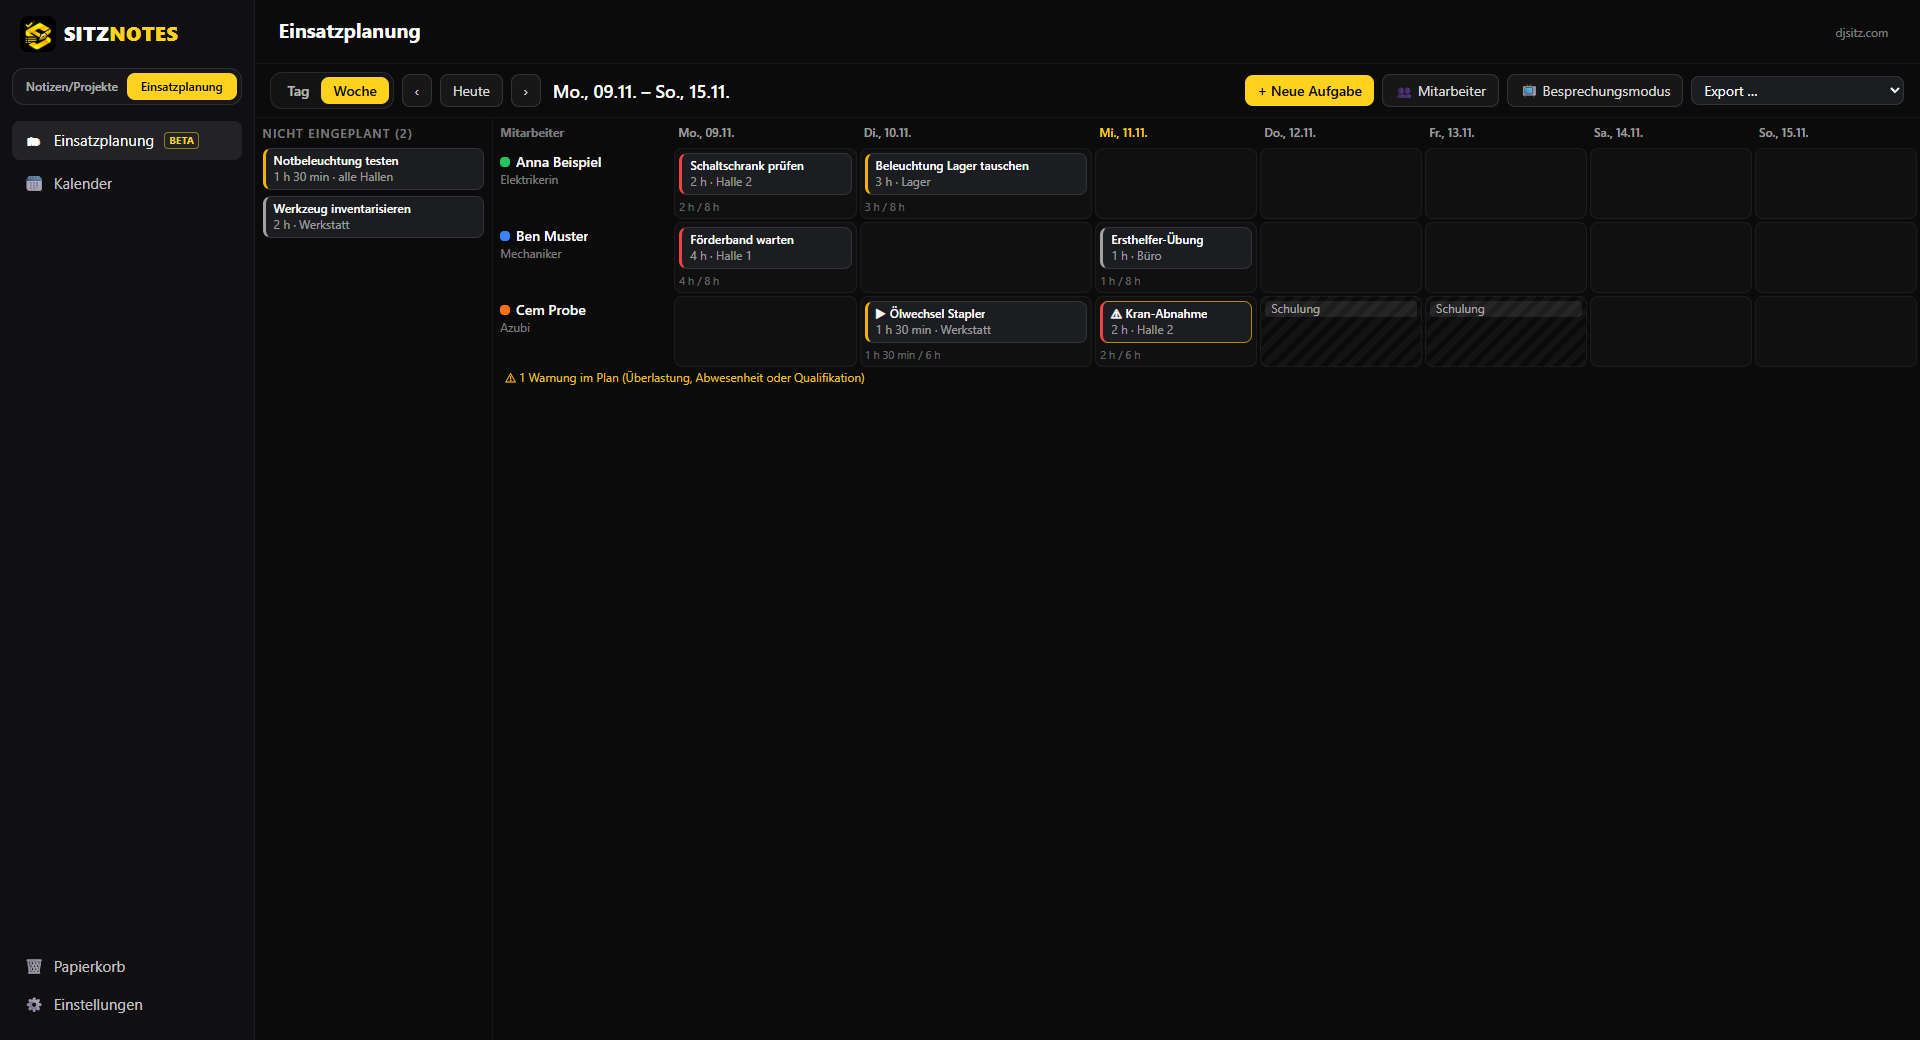
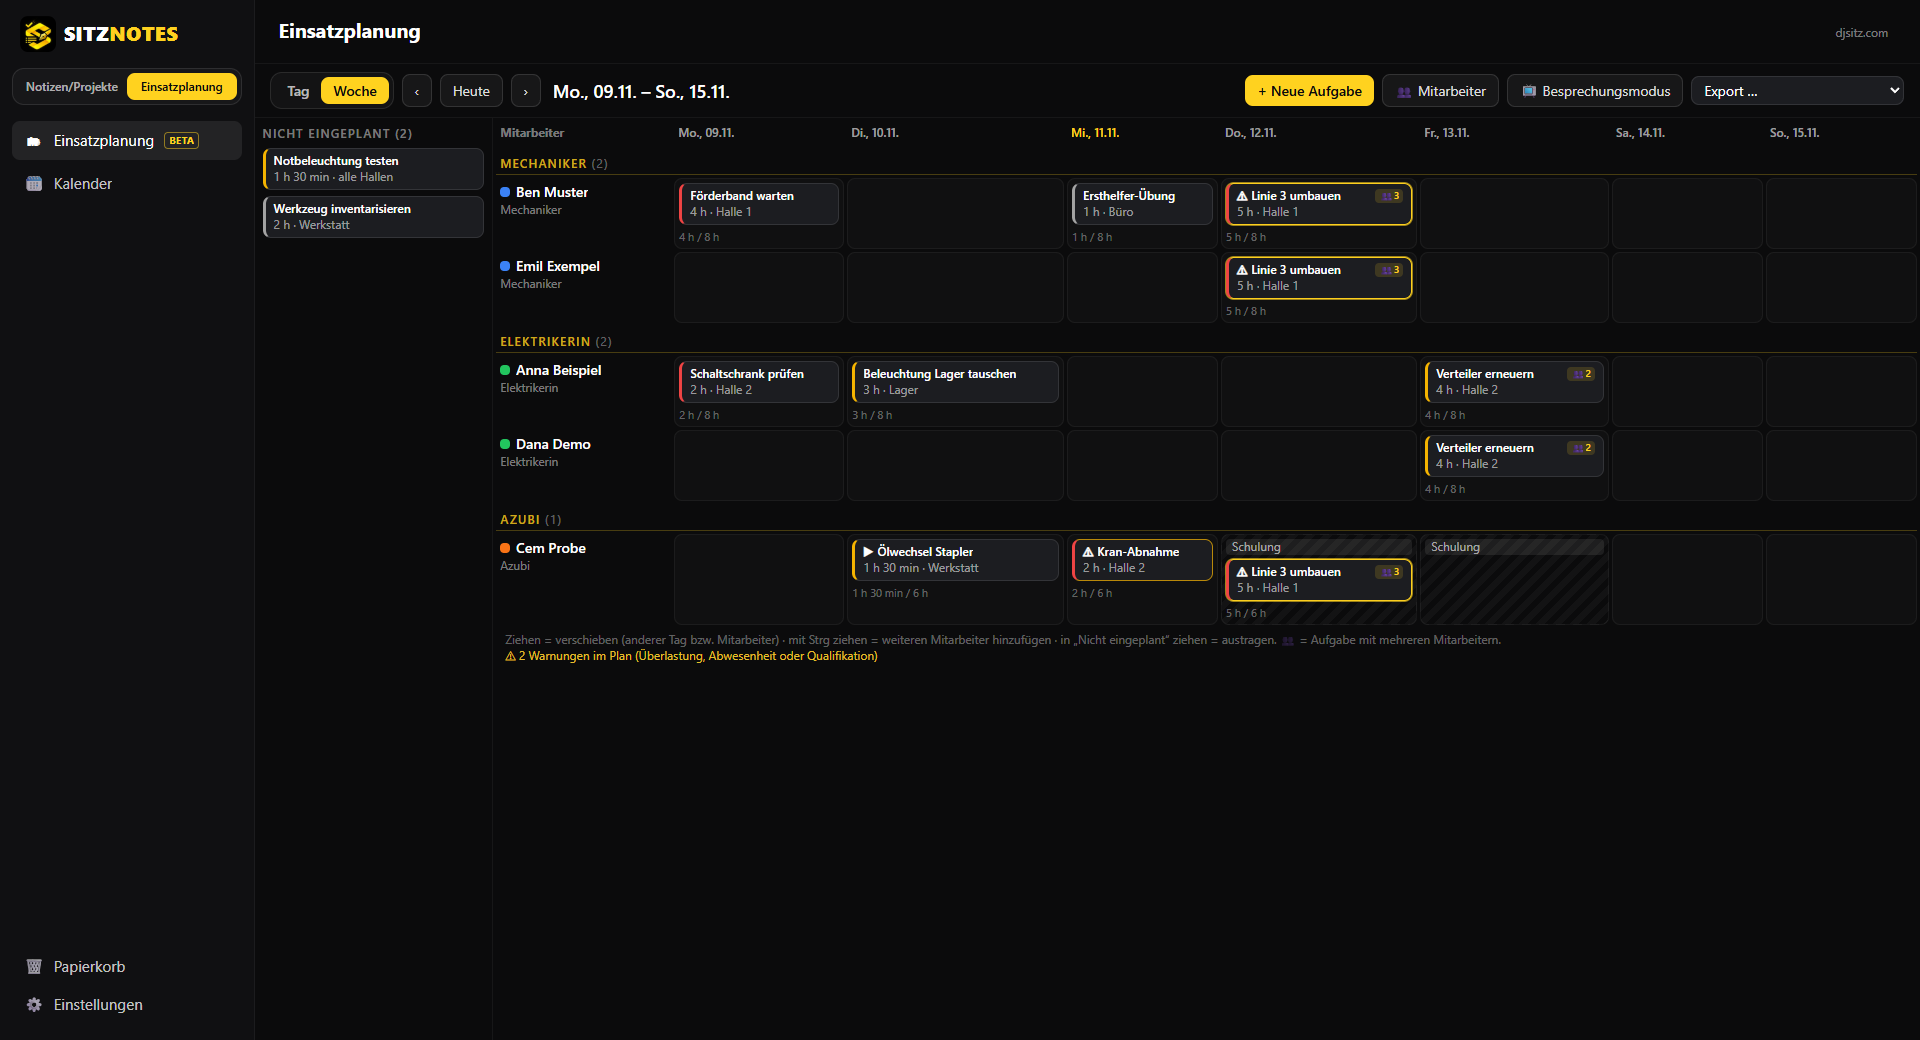
docs: README für v0.5.1 (Diktat, Einsatzplanung im Team, Ordner, Kopieren, Formerkennung)

diff --git a/README.md b/README.md
@@ -40,12 +40,16 @@
 - **Kalender & Erinnerungen:** Fälligkeit, Erinnerungen und Wiedervorlage an jeder Karte, Kalender (Monat/Woche/Agenda) mit Drag & Drop, **„Heute & überfällig"** in der Seitenleiste, Erinnerungen mit „Öffnen", „Erledigt" und „Später" – auch wenn das Fenster geschlossen ist. Export als **.ics** für Outlook, Apple oder Google Kalender.
 - **Quick Capture versteht Zeitangaben** wie „morgen 9 Uhr", „Freitag" oder „in 2 Wochen" und setzt die Fälligkeit.
 - **Skripte & Handschrift (Beta):** Vorlesungsskripte und Übungsblätter als **PDF importieren** oder **Notizbücher** mit leeren, linierten, karierten oder Punkt-Seiten anlegen – und mit **druckempfindlichem Stift**, **Textmarker**, **Radierer** (ganzer Strich oder nur ein Bereich), **Lineal/geraden Linien**, **Formen** und **Lasso** bearbeiten. **Seiten an jeder Stelle einfügen**, duplizieren, löschen und umsortieren – der Platz beim Rechnen geht nie aus. Zoom, Seitenübersicht, **Suche im PDF-Text**, **Export als PDF mit Handschrift** (das Original bleibt unverändert), Seite oder Ausschnitt als Bild in eine Notiz. Funktioniert mit Maus, Touch und Grafiktablett.
+  - **Ordner/Kurse:** z. B. „Mathe 1" mit Unterordnern, Farbe und Symbol, optional einem Space zugeordnet – Skripte und Notizbücher per Drag & Drop einsortieren.
+  - **Kopieren, Ausschneiden, Einfügen, Duplizieren:** mit dem Lasso auswählen, dann über die Leiste an der Auswahl, per Rechtsklick (bzw. langes Drücken) oder mit **Strg+C / Strg+X / Strg+V / Strg+D** – auch auf andere Seiten und in andere Notizbücher.
+  - **Formerkennung durch Halten:** Strich zeichnen und am Ende kurz stillhalten – daraus wird eine saubere **Gerade** (rastet waagerecht/senkrecht ein, ideal für Bruchstriche), ein **Kreis**, eine **Ellipse**, ein **Rechteck/Quadrat**, ein **Dreieck** oder ein **Pfeil**. **Strg+Z** holt den Strich zurück.
 - **Skizze in jeder Notiz:** Baustein „Skizze" in der Einfügen-Leiste (oder `/skizze`) – kurz zeichnen, als Bild einfügen.
+- **Direkt diktieren:** In jedem Textfeld (Notiz, Quick Capture, Einsatzplanung, LaTeX-Editor) auf 🎙 klicken oder **Strg+Umschalt+D** drücken – sprechen – und der Text steht an der Cursor-Stelle, mit Satzzeichen und Großschreibung. Kürzel **gedrückt halten** = sprechen, loslassen = einfügen; **Esc** bricht ab. Optional **Dauer-Diktat**. Läuft **lokal** auf deinem Gerät, ohne Cloud; beim Diktat wird kein Audio gespeichert.
 - **Sprachnotizen:** Aufnahme direkt in einer Karte (Einfügen-Leiste „Sprache" oder `/sprache`) und im Quick Capture (🎙), mit Player. Auf Wunsch **lokal in Text umgewandelt** – auf deinem Gerät, ohne Cloud.
 - **Fixes 🐞:** eigene Spalte im Board direkt nach der Inbox; Schalter **„Nur Fixes"** zeigt nur Fehler und Korrekturen.
 - **Liste und Board** (Kanban nach Status mit Drag & Drop), **Spalten auf- und zuklappbar, ausblendbar und umsortierbar**, **eigene Spalten** mit Name, Farbe und Symbol (Rechtsklick auf den Spaltenkopf), Schalter **„Erledigte ausblenden"**.
 - **Spaces archivieren:** Abgeschlossenes verschwindet aus dem Alltag, bleibt im **Archiv** lesbar und lässt sich jederzeit wiederherstellen.
-- **Einsatzplanung (Beta)** für Teams: Mitarbeiter mit Rolle, Qualifikationen und Abwesenheiten; Aufgaben per Drag & Drop einplanen (Tag oder Woche, Schichten), **Warnungen** bei Überlastung, Abwesenheit oder fehlender Qualifikation; Zuweisungs- und Aufgabenliste als **PDF/Druck (A4 quer)** oder **CSV**; **Besprechungsmodus** im Vollbild für den Monitor in der Morgenrunde. Umschalter **„Notizen/Projekte ↔ Einsatzplanung"** oben in der Seitenleiste.
+- **Einsatzplanung (Beta)** für Teams: Mitarbeiter mit Rolle, Qualifikationen und Abwesenheiten – **nach Rolle gruppiert** und alphabetisch, Reihenfolge der Rollen einstellbar; viele gleichartige Mitarbeiter **schnell anlegen** („Speichern & nächster" übernimmt Rolle und Qualifikationen); Aufgaben per Drag & Drop einplanen (Tag oder Woche, Schichten), auch **mit mehreren Mitarbeitern** (mit Strg ziehen = weiteren hinzufügen), **Warnungen** bei Überlastung, Abwesenheit oder fehlender Qualifikation; Zuweisungs- und Aufgabenliste als **PDF/Druck (A4 quer)** oder **CSV**; **Besprechungsmodus** im Vollbild für den Monitor in der Morgenrunde. Umschalter **„Notizen/Projekte ↔ Einsatzplanung"** oben in der Seitenleiste.
 - **Projektarbeiten (Beta):** wissenschaftliche Arbeiten, Bachelorarbeiten und andere Dokumente in **LaTeX** schreiben – mit **PDF-Vorschau** daneben, die sich nach dem Tippen selbst erneuert, verständlicher **Fehleranzeige** (Klick springt zur Zeile), Vorlage **„Wissenschaftliche Arbeit (deutsch)"** (Titelseite, Verzeichnisse, Literatur, deutsche Silbentrennung), deinen Notizen zum Einfügen und Export als PDF oder ZIP. Bestehende LaTeX-Projekte lassen sich als Kopie importieren.
 - **Volltextsuche** (auch Wortanfänge, Umlaute egal), Filter nach Status/Space/Tag, **Schnellsuche mit Strg+K**.
 - **Bilder** per Drag & Drop oder Einfügen (z. B. Bildschirmausschnitt).
@@ -67,11 +71,19 @@
 </p>
 
 <p align="center">
+  <img src="assets/screenshots/sitznotes-ordner.png" alt="SitzNotes: Ordner für Vorlesungen in „Skripte & Handschrift“" width="900">
+</p>
+
+<p align="center">
+  <img src="assets/screenshots/sitznotes-diktat.png" alt="SitzNotes: Direkt diktieren – „Höre zu …“ in einer Notiz" width="900">
+</p>
+
+<p align="center">
   <img src="assets/screenshots/sitznotes-kalender.png" alt="SitzNotes: Kalender mit Fälligkeiten und Aufgaben" width="900">
 </p>
 
 <p align="center">
-  <img src="assets/screenshots/sitznotes-einsatzplanung.png" alt="SitzNotes: Einsatzplanung (Beta) mit Mitarbeitern, Aufgaben und Warnungen" width="900">
+  <img src="assets/screenshots/sitznotes-einsatzplanung.png" alt="SitzNotes: Einsatzplanung – Mitarbeiter nach Rollen, Aufgaben mit mehreren Mitarbeitern" width="900">
 </p>
 
 <p align="center">
@@ -136,7 +148,11 @@ und die Sicherungen darin gelöscht.
 | **Rechtsklick** auf einen Spaltenkopf | Board: Spalte ausblenden, verschieben, Spalten anpassen |
 | **Strg+Z** / **Strg+Y** | in Skripten & Notizbüchern: rückgängig / wiederholen |
 | **Umschalt** beim Ziehen | gerade Linie bzw. Pfeil in 15°-Schritten |
-| **Entf** | Lasso-Auswahl löschen |
+| **Strg+C** / **Strg+X** / **Strg+V** / **Strg+D** / **Entf** | Lasso-Auswahl kopieren / ausschneiden / einfügen / duplizieren / löschen |
+| **Rechtsklick** bzw. **langes Drücken** auf eine Seite | Menü: Kopieren, Ausschneiden, Duplizieren, Löschen, Einfügen |
+| Am Strichende **kurz stillhalten** | Formerkennung (Gerade, Kreis, Rechteck, Dreieck, Pfeil …) |
+| **Strg+Umschalt+D** (halten oder drücken) | in jedem Textfeld diktieren (in den Einstellungen änderbar), **Esc** bricht ab |
+| **Strg** beim Ziehen einer Aufgabe | Einsatzplanung: weiteren Mitarbeiter hinzufügen |
 | **← / →** | im Besprechungsmodus: Tag bzw. Woche blättern (**Esc** beendet) |
 | **Esc** | Karte schließen |
 
@@ -152,8 +168,10 @@ Auf dem Mac jeweils **⌘** statt **Strg**.
 - **Board für den Überblick:** Karten per Drag & Drop in die nächste Spalte ziehen; Spalten, die du gerade nicht brauchst, per Klick auf den Spaltenkopf zuklappen; „Erledigte ausblenden" hält das Board übersichtlich.
 - **Projektarbeit neben den Notizen:** Ordne die Projektarbeit dem Space mit deinen Recherche-Notizen zu – unter „Notizen" stehen sie neben dem Editor und lassen sich per Klick als LaTeX einfügen. Bilder einfach in die Dateiliste oder den Editor ziehen.
 - **Verknüpfen statt kopieren:** Gehört eine Idee zu einer anderen, verknüpfe sie – in beiden Karten ist die Verbindung sichtbar.
-- **Diktieren statt tippen:** Systemeigenes Diktieren funktioniert in jedem Textfeld von SitzNotes – **Windows: Win+H**, **macOS: Diktierfunktion** (z. B. zweimal **Fn** bzw. die **Globus-Taste**). Für längere Gedanken unterwegs: **🎙 im Quick Capture** – die Aufnahme landet in der Inbox, mit Sprachmodell gleich als Text.
-- **Sprache in Text – lokal:** Einstellungen → **„Sprache & Diktat"** → Modell laden („Genauer", ca. 180 MB, empfohlen – oder „Schnell", ca. 57 MB). Die Größe siehst du vor dem Download; danach läuft alles offline. Mit „automatisch umwandeln" steht der Text direkt unter jeder Aufnahme.
+- **Diktieren statt tippen:** In jedes Textfeld klicken und **Strg+Umschalt+D gedrückt halten**, sprechen, loslassen – fertig. Für Umbrüche „neue Zeile" bzw. „neuer Absatz" sagen. Für längere Texte in den Einstellungen das **Dauer-Diktat** einschalten. Alternativ funktioniert auch das Diktieren des Systems (**Windows: Win+H**, **macOS:** zweimal **Fn** bzw. **Globus-Taste**). Für längere Gedanken unterwegs: **🎙 im Quick Capture** – die Aufnahme landet in der Inbox, mit Sprachmodell gleich als Text.
+- **Sprache in Text – lokal:** Einstellungen → **„Sprache & Diktat"** → Modell laden („Genauer", ca. 180 MB, empfohlen – oder „Schnell", ca. 57 MB). Die Größe siehst du vor dem Download; danach läuft alles offline. Mit „automatisch umwandeln" steht der Text direkt unter jeder Aufnahme. Ist dir das Diktat zu langsam, wähle dort „Schnell".
+- **Ein Ordner je Vorlesung:** In „Skripte & Handschrift" einen Ordner pro Kurs anlegen und ihm den Space des Kurses geben – neue Skripte darin landen automatisch im richtigen Space.
+- **Saubere Skizzen ohne Lineal:** Bruchstrich, Achsen oder Kästen einfach zeichnen und am Ende kurz stillhalten. Rechenweg auf eine neue Seite übernehmen: mit dem Lasso auswählen, **Strg+C**, auf der neuen Seite **Strg+V**.
 - **Skript in der Vorlesung:** PDF importieren, mit dem **Textmarker** markieren, mit dem **Stift** mitschreiben; wird es eng, unter der Seite „+ Kariert" einfügen und dort weiterrechnen. Am Ende **„Als PDF exportieren"** für eine Kopie mit allen Notizen.
 - **Mit Grafiktablett oder Touchscreen:** Sobald ein Stift erkannt wird, schaltet sich **„Nur Stift zeichnet"** ein – Finger blättern dann nur (Handballen-Schutz).
 - **Sicherungsordner außerhalb des App-Datenordners wählen** (Einstellungen → Sicherungsordner), z. B. **Dokumente**, ein **NAS** oder ein Cloud-Ordner. Dann überstehen deine Sicherungen auch eine Deinstallation oder einen Rechnerwechsel.
@@ -163,6 +181,7 @@ Auf dem Mac jeweils **⌘** statt **Strg**.
 - **Board nach deinem Ablauf:** Spalten, die du nie brauchst (z. B. „Verworfen"), ausblenden; eigene Spalten wie „Warten auf Rückmeldung" anlegen. Karten in ausgeblendeten Spalten gehen nie verloren.
 - **Fertige Projekte archivieren** statt löschen – das Archiv bleibt durchsuchbar („Archiv einbeziehen" neben der Suche).
 - **Morgenrunde im Team:** In der Einsatzplanung den **Besprechungsmodus** auf den großen Monitor bringen; Zuweisungsliste vorher als PDF für den Aushang speichern.
+- **Team schnell erfassen:** Erst alle Mitarbeiter einer Rolle hintereinander anlegen (Rolle und Qualifikationen einmal eintragen, dann nur noch Name + Enter), dann die nächste Rolle. Mit ↑/↓ legst du fest, welche Rolle oben steht.
 - **Markdown-Export** (Einstellungen oder Space-Menü „⋯") für eine lesbare Kopie: ein Ordner je Space, Bilder im Unterordner `bilder`, Fixes im Unterordner `Fixes`.
 - **Papierkorb aufräumen:** Gelöschte Karten liegen im Papierkorb, bis du sie endgültig löschst („Papierkorb leeren"). Wer möchte, stellt in den Einstellungen „Automatisch leeren nach … Tagen" ein – standardmäßig ist das aus.
 
@@ -222,11 +241,13 @@ Danach gleicht SitzNotes automatisch ab: beim Start, alle paar Minuten, kurz nac
 - **Nicht synchronisiert** werden gerätespezifische Dinge: Tastenkürzel, Fensterpositionen, Sicherungen, ausgeblendete Bereiche, die LaTeX-Engine und „Externe Programme erlauben" einer Projektarbeit.
 - Sync ist **keine Sicherung**: Löschen wird ebenfalls übertragen. Die automatischen Sicherungen laufen weiter.
 - Sync ausschalten oder ein Gerät entfernen geht jederzeit – lokale Daten bleiben erhalten.
+- **Alle Geräte aktuell halten:** Bringt eine neue Version neue Daten mit (z. B. 0.5.1: Ordner, mehrere Mitarbeiter je Aufgabe), meldet ein Gerät mit älterer Version **„Bitte SitzNotes aktualisieren"** und gleicht bis zum Update nichts ab – es überschreibt nichts, und seine Änderungen werden nach dem Update übertragen.
 
 ## Datenschutz
 
 - Alle Karten, Bilder, Projektarbeiten und Einstellungen liegen **nur lokal** auf deinem Gerät (Windows: `%APPDATA%\de.sitzmedia.sitznotes`, macOS: `~/Library/Application Support/de.sitzmedia.sitznotes`).
 - **Kein Konto, kein Server, keine Telemetrie.** SitzNotes funktioniert vollständig ohne Internet.
+- **Diktat:** Was du diktierst, wird lokal in Text umgewandelt – es wird kein Audio gespeichert oder übertragen.
 - **Sprachaufnahmen** bleiben auf deinem Gerät (und in deinem Sync-Ordner). Die Umwandlung in Text läuft **lokal** (whisper.cpp). Das Sprachmodell wird **nur nach deiner Zustimmung** einmalig von huggingface.co geladen; dabei werden keine Daten von dir übertragen. Das Modell wird nicht synchronisiert und lässt sich jederzeit entfernen.
 - Ins Internet geht SitzNotes nur für die **Update-Suche** (eine kleine Abfrage bei GitHub, abschaltbar) und – nur wenn du Projektarbeiten mit dem mitgelieferten Tectonic nutzt – zum einmaligen Laden von LaTeX-Paketen. Dabei werden keine Daten von dir übertragen.
 - **Sync** läuft nur über den Ordner, den du selbst wählst; SitzNotes betreibt keinen Server. Mit Ende-zu-Ende-Verschlüsselung (AES-256) sieht der Cloud-Anbieter nur verschlüsselte Dateien; der Schlüssel liegt im Schlüsselbund bzw. in der Windows-Anmeldeinformationsverwaltung deiner Geräte.
@@ -242,7 +263,8 @@ Danach gleicht SitzNotes automatisch ab: beim Start, alle paar Minuten, kurz nac
 - „Als PDF speichern" direkt aus der Druckansicht gibt es unter Windows; auf dem Mac im Druckdialog **„PDF → Als PDF sichern"** wählen.
 - Sync über einen Ordner ist so schnell wie dein Cloud-Dienst (meist Sekunden bis wenige Minuten).
 - Skripte & Handschrift sind eine **Beta**. Eine Skizze in einer Notiz wird als Bild eingefügt und lässt sich danach nicht mehr als Zeichnung bearbeiten (dafür die Notizbücher nutzen).
-- Für Sprachaufnahmen braucht SitzNotes ein Mikrofon; macOS fragt beim ersten Mal nach der Freigabe.
+- Für Sprachaufnahmen und Diktat braucht SitzNotes ein Mikrofon; macOS fragt beim ersten Mal nach der Freigabe. Das Diktat braucht ein geladenes Sprachmodell (siehe Tipps).
+- Die Formerkennung erkennt einfache Formen (Gerade, Pfeil, Rechteck, Kreis/Ellipse, Dreieck); gedrehte Ellipsen und Vielecke mit mehr Ecken bleiben Freihandstriche.
 - Noch nicht enthalten: iPhone/iPad (mit Apple Pencil folgt mit der iPad-App), Mindmap/Canvas, Wireframes – diese kommen in späteren Versionen.
 
 ## Patchnotes
